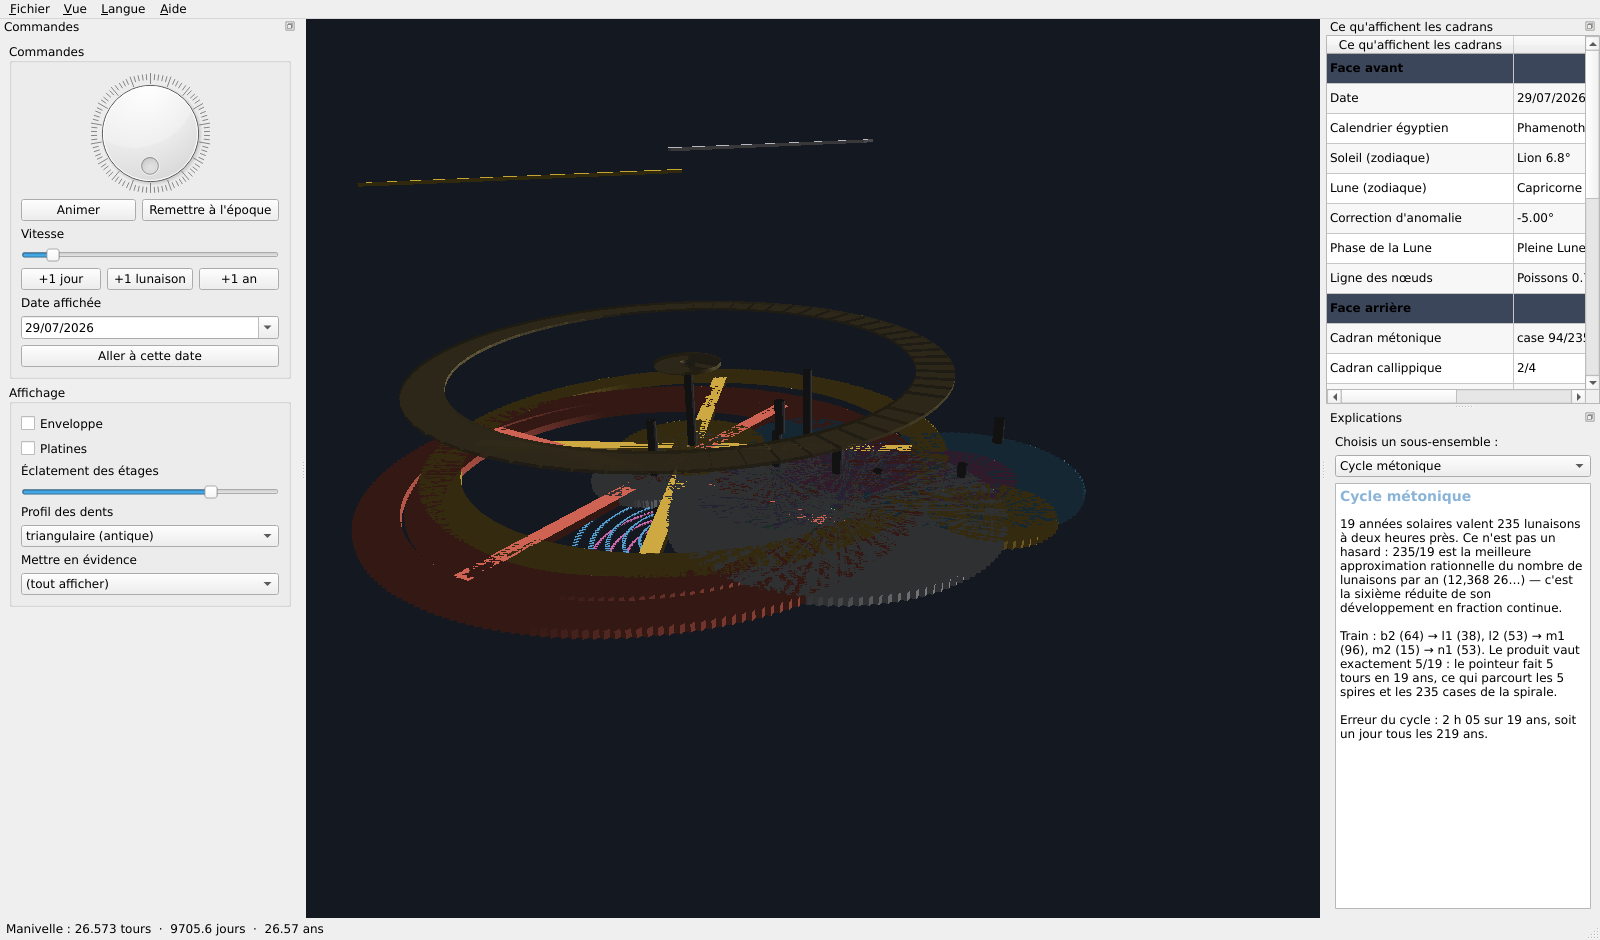
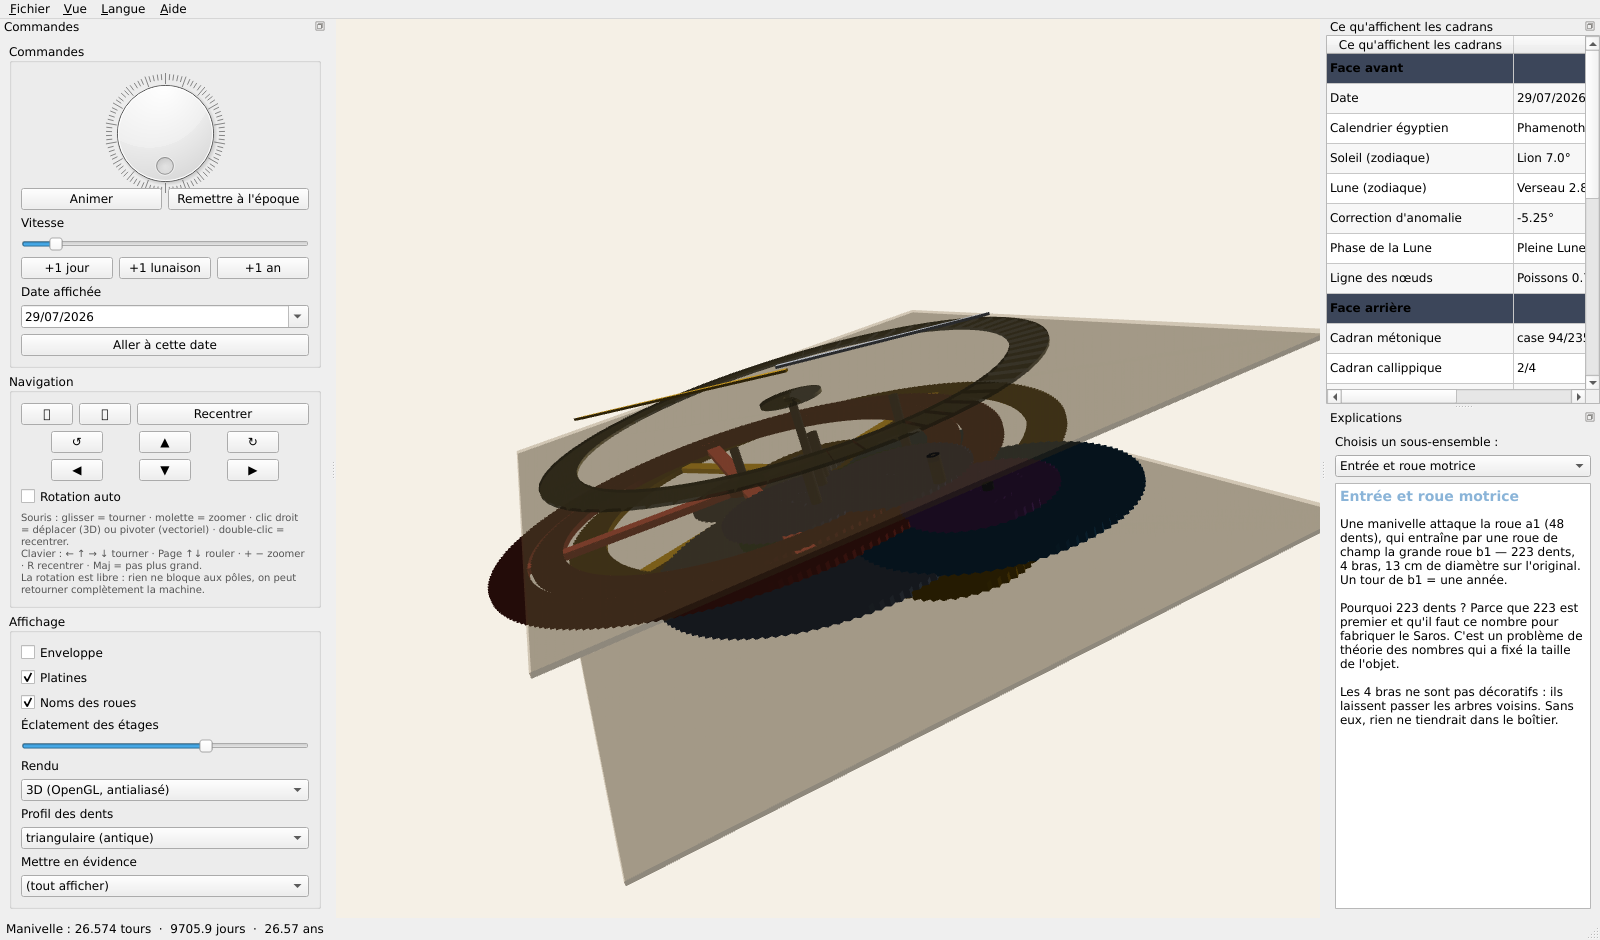
Journal : navigation libre, machine fermée, auto-installation
Claude-Session: https://claude.ai/code/session_01XczMTafjsvFZKDmDcyRtG9

diff --git a/JOURNAL.md b/JOURNAL.md
@@ -56,3 +56,55 @@ vectoriel pour éviter pixels ? »
   effaçait toutes les roues situées dessous. Remplacé par une différence de
   `QPainterPath` (jante ajourée réelle), puis union des bras et du moyeu.
 - Case à cocher « Noms des roues » ajoutée (le drapeau existait sans UI).
+
+## 2026-07-29 (suite) — navigation libre, machine fermée, auto-installation
+
+Demandes de Kevin : « on doit pouvoir zoomer dézoomer et tourner le truc dans
+tous les sens », « la machine fermée complète avec ses cadrans et manettes
+fidèle et un bouton pour enlever l'enveloppe », « le programme doit être
+capable d'installer tout seul tout ce dont il a besoin y compris la 3D ».
+
+### Navigation
+- Caméra 3D en **quaternion** (`GLViewWidget(rotationMethod="quaternion")`) :
+  la rotation n'est plus bornée à ±90° d'élévation, on peut passer au-dessus
+  du pôle et retourner complètement la machine. En mode 'euler' (défaut de
+  pyqtgraph) c'était impossible.
+- Méthodes communes aux deux vues : `zoom()`, `rotate()`, `roll()`,
+  `reset_view()` — donc les mêmes boutons pilotent la 3D et le vectoriel.
+- Groupe **Navigation** dans l'UI : zoom ±, croix de rotation, roulis,
+  recentrer, rotation automatique.
+- Raccourcis : flèches, Page ↑↓, +/−, R, Espace, Maj pour un pas plus grand.
+- Vectoriel : molette = zoom, glisser = déplacer, clic droit = pivoter,
+  Ctrl+molette = pivoter, double-clic = recentrer.
+
+### Machine fermée
+- Coffret de bois (4 flancs + fond), façade de bronze pleine, cadran gravé
+  avec l'anneau du zodiaque (72 traits, 12 longs) et l'anneau calendaire de
+  365 jours, spirales métonique et Saros gravées au dos, **manivelle** coudée
+  sortant du flanc dans l'axe de a1, bille de phase lunaire.
+- Boîtier recentré sur `CASE_CX = 24` : l'emprise réelle va de x = −112 (b1)
+  à x = +160 (manivelle), le centre n'est donc pas l'arbre b.
+- `LEVEL_PITCH` ramené de 4,5 à 3,4 mm : la machine était trop épaisse pour
+  ressembler à l'original.
+- **Bug corrigé** : les aiguilles flottaient hors du coffret — leur maillage
+  était créé à une hauteur z, *puis* re-translaté à cette même hauteur par
+  `set_pointers`, donc décalé deux fois. Maillages désormais créés à plat.
+
+### Auto-installation
+- `anticythere/bootstrap.py`, sans aucune dépendance : détecte les modules
+  manquants, les installe avec pip (`--user` hors venv), rend visible le
+  site-packages utilisateur puis **relance le programme une fois** si les
+  paquets fraîchement installés ne sont pas encore importables.
+- Vérifié depuis un conteneur `python:3.12-slim` **vierge** : les quatre
+  paquets s'installent et `has_3d` passe à True dans la foulée.
+- `qt_can_start()` : teste dans un **sous-processus isolé** que Qt démarre
+  vraiment. Sous Linux, l'absence des bibliothèques xcb ne lève pas
+  d'exception — elle tue le processus. Le test évite le crash et affiche la
+  commande apt/dnf/pacman exacte. Un premier essai en `QT_QPA_PLATFORM=offscreen`
+  passait à côté du problème : offscreen n'utilise pas xcb.
+
+### Documentation et publication
+- `docs/Manuel.tex` → `docs/Manuel.pdf` : 9 pages, bilingue FR/EN, illustré
+  des captures réelles. Temporaires LaTeX supprimés.
+- README refondu (auto-installation, navigation, rendu vectoriel).
+- Dépôt publié : **https://github.com/ARP273-ROSE/Anticythere3D** (privé).
